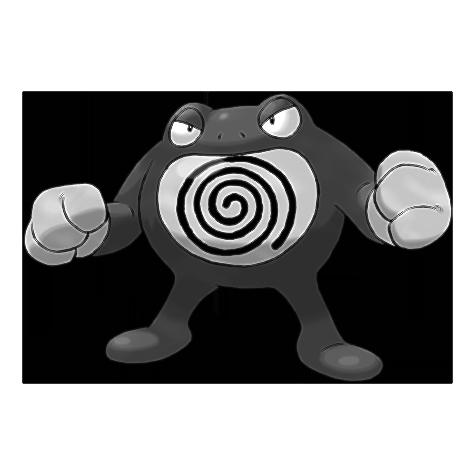
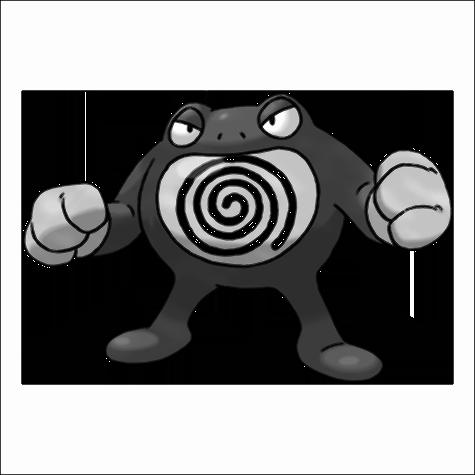
Image Gradient using Sobel’s Operator completed

diff --git a/lab2 image Processing/src/Image.java b/lab2 image Processing/src/Image.java
@@ -4,6 +4,7 @@ import java.awt.*;
 import java.awt.image.BufferedImage;
 import java.io.File;
 import java.io.IOException;
+import java.util.Arrays;
 
 public class Image {
     BufferedImage image;
@@ -179,8 +180,7 @@ public class Image {
 
     //===================for laplacian transform ==========================
     int[][] getLaplacianKernel(){
-        int[][] kernel = {{0,1,0},{1,-4,1},{0,1,0}};
-        return kernel;
+        return new int[][]{{0,1,0},{1,-4,1},{0,1,0}};
     }
 
     int[][] convolutionKernel(int[][]kernel){
@@ -193,14 +193,14 @@ public class Image {
         return finalArray;
     }
 
-    int[][] getPadded2DSection(int[][]imageArray, int xCord, int yCord , int size){
-        int[][] finalArray = new int[size][size];
+    int[][] getPadded2DSection(int[][]imageArray, int xCord, int yCord , int sizeOfKernel){
+        int[][] finalArray = new int[sizeOfKernel][sizeOfKernel];
 
-        int x = xCord - (size/2);
+        int x = xCord - (sizeOfKernel /2);
 
-        for(int i=0;i<size;i++){
-            int y = yCord - (size/2);
-            for(int j=0; j<size;j++){
+        for(int i = 0; i< sizeOfKernel; i++){
+            int y = yCord - (sizeOfKernel /2);
+            for(int j = 0; j< sizeOfKernel; j++){
                 if(x<0 || y< 0 || x>=imageArray.length || y>= imageArray[0].length){
                     finalArray[i][j]=0;
                 }else {
@@ -235,23 +235,61 @@ public class Image {
             }
         }
 
-        //to find max intensity
+        //to find max and min intensity
         int maxIntensity = -999999999 ;
+        int minIntensity =  999999999;
         for(int x =0; x< unscaledArray.length;x++){
             for(int y=0; y<unscaledArray[0].length;y++){
                 if(maxIntensity<unscaledArray[x][y]){
                     maxIntensity=unscaledArray[x][y];
+                }
+                if(minIntensity>unscaledArray[x][y]){
+                    minIntensity = unscaledArray[x][y];
                 }
             }
         }
         //rescaling the intensity
         for(int x =0; x< unscaledArray.length;x++){
             for(int y=0; y<unscaledArray[0].length;y++){
-                finalArray[x][y] = 255 * (int)unscaledArray[x][y]/maxIntensity;
+                finalArray[x][y] =  255 * (unscaledArray[x][y]-minIntensity)/maxIntensity;
             }
         }
         return finalArray;
     }
+
+    //=====================for enhancement ===============
+
+
+    public  int getEnhancementConstantScaling(int[] [] kernel){
+        /*
+
+        where c = -1 if we take a Laplacian kernel with negative center, and c = 1 if we take a Laplacian kernel with positive center.
+         */
+        int centerRow = (kernel.length /2)+1;
+        int centerColm = (kernel[0].length /2)+1;
+        if(kernel[centerRow][centerColm] < 0 ){
+            return -1;
+        }else {
+            return 1;
+        }
+    }
+
+    public  int[][] imageLaplacianEnhancement(int[][]grayImageArray, int[][]correlationArray,int scale){
+
+        /*
+        The value of image Laplacian is higher where there is sharp transition in intensity, i.e. where the image is more detailed.
+         Thus, addition of the Laplacian to the original image enhances the details in an image.
+         */
+        int [][] finalArray = new int [grayImageArray.length][grayImageArray[0].length];
+
+        for(int x =0; x< grayImageArray.length ; x++){
+            for(int y=0 ; y< grayImageArray[0].length;y++){
+                finalArray[x][y] = (grayImageArray[x][y]+ scale * correlationArray[x][y])%255 ;
+            }
+        }
+        return  finalArray;
+    }
+
 
     //=====================for averaging and bluing image===============
 
@@ -299,24 +337,78 @@ public class Image {
         //rescaling the intensity
         for(int x =0; x< unscaledArray.length;x++){
             for(int y=0; y<unscaledArray[0].length;y++){
-                finalArray[x][y] = 255 * (int)unscaledArray[x][y]/maxIntensity;
+                finalArray[x][y] = 255 * unscaledArray[x][y]/maxIntensity;
             }
         }
         return finalArray;
     }
 
-    public  int[][] imageLaplacianEnhancement(int[][]grayImageArray, int[][]correlationArray){
-
-        int [][] finalArray = new int [grayImageArray.length][grayImageArray[0].length];
-
-        for(int x =0; x< grayImageArray.length ; x++){
-            for(int y=0 ; y< grayImageArray[0].length;y++){
-                finalArray[x][y] = (grayImageArray[x][y]+correlationArray[x][y]);
-            }
-        }
-        return  finalArray;
+    //===================== image gradient using Sobel’s masks===============
+    public int[][] getHorizontalKernel(){
+        return new int[][]{{-1,2,-1},{0,0,0},{1,2,1}};
+    }
+    public int[][] getVerticalKernel(){
+        return new int[][]{{-1,0,1},{-2,0,2},{-1,0,1}};
     }
 
+    public int[][] getMagnitudeOfSobelOperator(int[][] grayImageArray,int[][]horizontalKernel,int[][] verticalKernel){
+        int [][] finalArray = new int[grayImageArray.length][grayImageArray[0].length];
+        int[][] sectionArray;
+        int magnitudeX , magnitudeY;
+        for(int x =0; x<grayImageArray.length;x++){
+            for(int y =0 ; y<grayImageArray[0].length;y++){
+                sectionArray = getPadded2DSection(grayImageArray ,x,y,horizontalKernel.length);
+                magnitudeX = sumOfDotMatrix(sectionArray,horizontalKernel);
+                magnitudeY = sumOfDotMatrix(sectionArray,verticalKernel);
+                finalArray[x][y]= (int) Math.sqrt(magnitudeX * magnitudeX + magnitudeY * magnitudeY);
+            }
+        }
+        return finalArray;
+    }
+
+    public static int getMedian(int [][]array ){
+        // how we do is we flatten 1d array into 2d and sort the array
+        //then if odd number of elements are odd then value in length/2 is median
+        //if even we take out average of 2
+
+        int [] oneDArray = new int[array.length * array[0].length];
+        int index = 0;
+        for (int[] ints : array) {
+            for (int y = 0; y < array[0].length; y++) {
+                oneDArray[index] = ints[y];
+                index++;
+            }
+        }
+
+        Arrays.sort(oneDArray);
+
+        if(oneDArray.length % 2 == 0){//is even
+            int num1 = oneDArray[(oneDArray.length-1)/2];
+            int num2 = oneDArray[((oneDArray.length-1)/2)+1];
+            return (num1+num2)/2;
+        }
+        else {//is odd
+            return oneDArray[oneDArray.length/2];
+        }
+    }
+
+    int [][] binaryImagePixelsArray (int[][]inputArray , int threshold){
+
+        //if the intensity is greater than  threshold up it to 255 else downgrade it to 0
+
+        int [][] finalArray = new int[inputArray.length][inputArray[0].length];
+
+        for(int x = 0 ; x <inputArray.length ; x++){
+            for(int y = 0; y < inputArray[0].length ; y++){
+                if (inputArray[x][y] > threshold){
+                    finalArray[x][y] =255;
+                }else{
+                    finalArray[x][y] = 0;
+                }
+            }
+        }
+        return finalArray;
+    }
 
 }
 

diff --git a/lab2 image Processing/src/Main.java b/lab2 image Processing/src/Main.java
@@ -28,7 +28,8 @@ public class Main {
 
         System.out.println("Laplacian complete ");
 
-        int[][]enhancedImage =img.imageLaplacianEnhancement(grayImageArray,correlationArray);
+        int enhancementConstantScaling = img.getEnhancementConstantScaling(kernel);
+        int[][]enhancedImage =img.imageLaplacianEnhancement(grayImageArray,correlationArray,enhancementConstantScaling);
         Image.display(enhancedImage,"enhanced image");
         Image.saveToFile(enhancedImage,"5 enhanced image","jpg");
 
@@ -40,6 +41,18 @@ public class Main {
         Image.saveToFile(blurArray,"6 blurring image","jpg");
 
         System.out.println("Image blurring complete ");
+
+
+        int[][] horizontalKernel = img.getHorizontalKernel();
+        int[][] verticalKernel = img.getVerticalKernel();
+        int[][] magnitudeOfSobelOperator = img.getMagnitudeOfSobelOperator(grayImageArray,horizontalKernel,
+                verticalKernel);
+        int median  = Image.getMedian(magnitudeOfSobelOperator);
+        int[][] binaryImageMedian = img.binaryImagePixelsArray(magnitudeOfSobelOperator,median);
+        Image.display(binaryImageMedian," image gradient using Sobel masks");
+        Image.saveToFile(binaryImageMedian,"7 image gradient using Sobel masks","jpg");
+
+
 
 
     }
